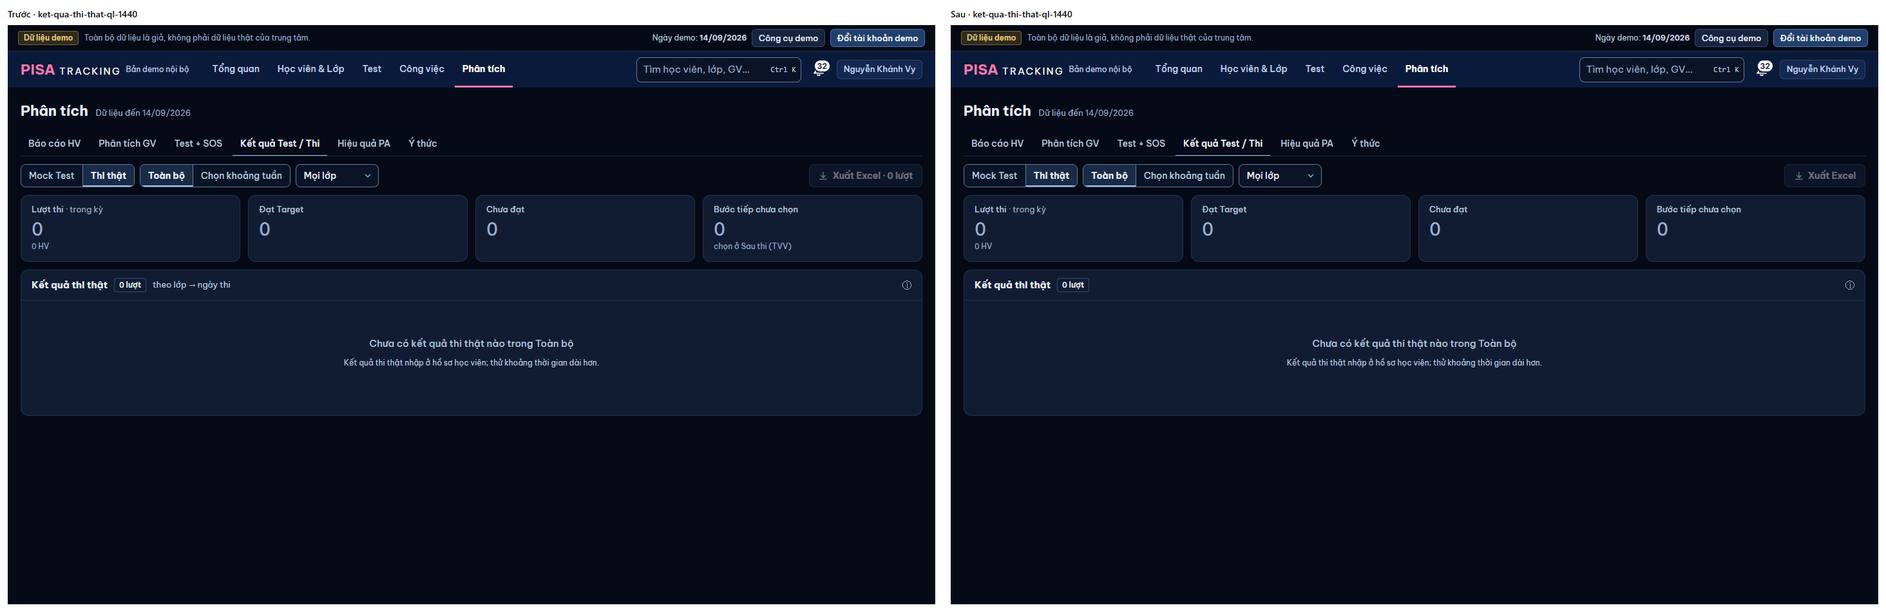
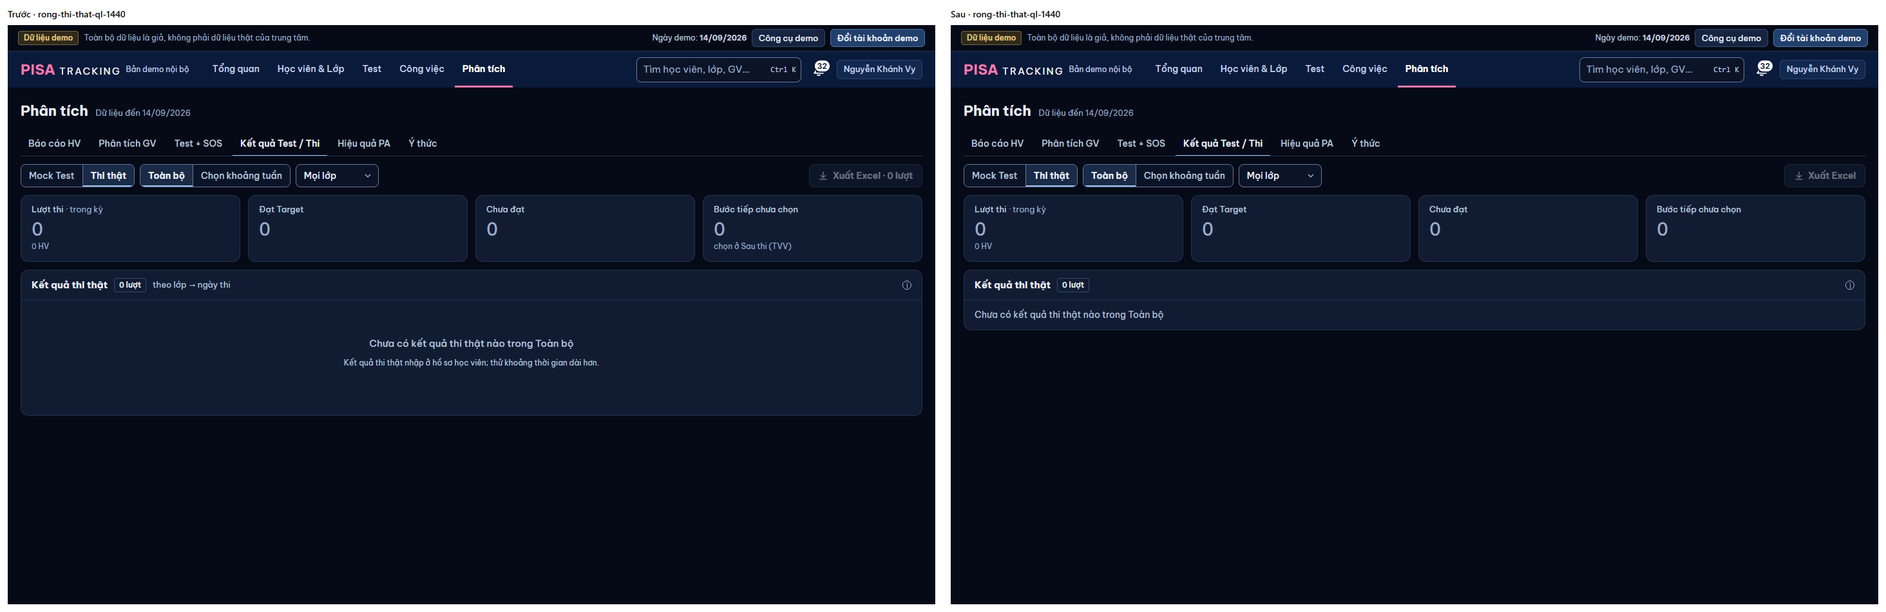
PT-GON: bỏ cột Lớp Thi thật (PTA XM-1), khung rỗng một câu ở đầu khung (M7)

Changed region(s): [[0.4973, 0.4879, 0.9945, 0.7014], [0.5283, 0.0, 0.5594, 0.0305], [0.0311, 0.0, 0.0622, 0.0305]]

diff --git a/web/src/modules/phanTich/KetQuaThi.tsx b/web/src/modules/phanTich/KetQuaThi.tsx
@@ -3,14 +3,14 @@ import { Link, useSearchParams } from 'react-router-dom';
 import { useApi } from '../../lib/useApi.ts';
 import { fmtBand } from '../../lib/format.ts';
 import { useNgayNghiepVu } from '../../ui/ngayNghiepVu.ts';
-import { Card, Empty, ErrorState, Skeleton } from '../../ui/ui.tsx';
+import { Card, ErrorState, Skeleton } from '../../ui/ui.tsx';
 import { ChipSos } from '../../ui/ChipSos.tsx';
 import { DauKetQua, lopKq } from '../../ui/BieuTuong.tsx';
 import { CHIP_SOS, NhanKq, lopSos } from '../../ui/Nhan.tsx';
 import { useDienThoai } from '../../ui/TheDong.tsx';
 import { PhanTrang, usePhanTrang, type ThanhPhanTrang } from '../../ui/PhanTrang.tsx';
 import { dich, t } from '@shared/i18n/index.ts';
-import { DOAN, DaiChiSo, DauThe, NutXemToanBo, NutXuat, OChon, SO_TRONG_CHIP, SoO as OSo, VaoHangLoc, doanNut, thamSoLoc, type PhamViPhanTich } from './dungChung.tsx';
+import { DOAN, DaiChiSo, DauThe, NutXemToanBo, RongDau, NutXuat, OChon, SO_TRONG_CHIP, SoO as OSo, VaoHangLoc, doanNut, thamSoLoc, type PhamViPhanTich } from './dungChung.tsx';
 import { duongDotTest } from '@shared/domain/index.ts';
 import { LINK_CHU, PanelCaseLuot } from './PanelCaseLuot.tsx';
 import {
@@ -71,7 +71,7 @@ function VungBang({ dau, error, reload, loading, rong, pt, bang, the }: {
   const dienThoai = useDienThoai();
   if (error) return <Card bodyClass="p-0">{dau}<div className="p-4"><ErrorState message={error.message} hint={error.hint} status={error.status} onRetry={reload} /></div></Card>;
   if (loading) return <Card bodyClass="p-0">{dau}<div className="p-4"><Skeleton rows={8} /></div></Card>;
-  if (rong) return <Card bodyClass="p-0">{dau}<div className="p-4">{rong}</div></Card>;
+  if (rong) return <Card bodyClass="p-0">{dau}{rong}</Card>;
   /* 375 (mockup C2): thẻ từng lượt đứng riêng, không khung bảng; phân trang ngay dưới thẻ cuối. */
   if (dienThoai) return <div className="space-y-2"><div ref={pt.dauBang} />{the}<div className="empty:hidden"><PhanTrang {...pt} duoi /></div></div>;
   return (
@@ -183,7 +183,7 @@ export function BangMock({ pv }: { pv: PhamViPhanTich }) {
           ]} />
         )}
         <VungBang dau={dauThe} error={error} reload={reload} loading={loading || !data} pt={pt.thanh}
-          rong={!rows.length ? <Empty title={t('Không có lượt Mock Test nào trong {ky}', { ky: nhanKhoang(pv.khoang).chinh })} hint={t('Thử khoảng thời gian dài hơn.')} action={<NutXemToanBo />} /> : null}
+          rong={!rows.length ? <RongDau chu={t('Không có lượt Mock Test nào trong {ky}', { ky: nhanKhoang(pv.khoang).chinh })} nut={<NutXemToanBo />} /> : null}
           the={pt.cat(rows).map((r) => (
             <div key={r.attemptId} className={THE_HV} style={nenThe}>
               <div className="flex items-center gap-2">
@@ -298,7 +298,7 @@ function BangThiThat({ pv }: { pv: PhamViPhanTich }) {
           ]} />
         )}
         <VungBang dau={dauThe} error={error} reload={reload} loading={loading || !data} pt={pt.thanh}
-          rong={!rows.length ? <Empty title={t('Chưa có kết quả thi thật nào trong {ky}', { ky: nhanKhoang(pv.khoang).chinh })} hint={t('Kết quả thi thật nhập ở hồ sơ học viên; thử khoảng thời gian dài hơn.')} action={<NutXemToanBo />} /> : null}
+          rong={!rows.length ? <RongDau chu={t('Chưa có kết quả thi thật nào trong {ky}', { ky: nhanKhoang(pv.khoang).chinh })} nut={<NutXemToanBo />} /> : null}
           the={hien.map((r) => (
             <div key={r.cycleId} className={THE_HV} style={nenThe}>
               <div className="flex items-center gap-2">
@@ -317,14 +317,15 @@ function BangThiThat({ pv }: { pv: PhamViPhanTich }) {
           ))}
           bang={(
             <div className="table-scroll bang-dinh">
-              <table className="w-full" style={{ tableLayout: 'fixed', minWidth: 1100 }}>
+              {/* PT-GON (PTA quyết XM-1, M3): bỏ cột "Lớp" — hàng nhóm đã ghi lớp (Xuất Excel giữ cột Lớp). */}
+              <table className="w-full" style={{ tableLayout: 'fixed', minWidth: 990 }}>
                 <colgroup>
-                  <col style={{ width: 180 }} /><col style={{ width: 110 }} /><col style={{ width: 100 }} /><col style={{ width: 70 }} />
+                  <col style={{ width: 180 }} /><col style={{ width: 100 }} /><col style={{ width: 70 }} />
                   {[0, 1, 2, 3].map((i) => <col key={i} style={{ width: 62 }} />)}
                   <col style={{ width: 76 }} /><col style={{ width: 130 }} /><col />
                 </colgroup>
                 <thead><tr>
-                  <th className="th sticky-col">{t('Học viên')}</th><th className="th">{t('Lớp')}</th><th className="th">{t('Ngày thi')}</th>
+                  <th className="th sticky-col">{t('Học viên')}</th><th className="th">{t('Ngày thi')}</th>
                   <th className="th text-center">OVR</th>
                   {['L', 'R', 'W', 'S'].map((k) => <th key={k} className="th text-center">{k}</th>)}
                   <th className="th text-center">Target</th>
@@ -336,13 +337,13 @@ function BangThiThat({ pv }: { pv: PhamViPhanTich }) {
                     const cuaLop = rows.filter((r) => (r.lop ?? '') === lop);
                     return (
                       <Fragment key={lop}>
-                        <tr className="hang-lon"><td colSpan={11} className="px-3 py-1.5">
-                          {lop || '—'} <span className="ml-1 text-[13px] font-normal text-dim">{t('{n} lượt · {hv} HV', { n: cuaLop.length, hv: new Set(cuaLop.map((r) => r.studentId)).size })}</span>
+                        <tr className="hang-lon"><td colSpan={10} className="px-3 py-1.5">
+                          {/* Cột Lớp đã bỏ → mã lớp ở hàng nhóm là link hồ sơ lớp (giữ thao tác cũ của ô Lớp). */}
+                          {lop && cuaLop[0]?.classId ? <Link to={`/hoc-vien/lop/${cuaLop[0].classId}`} className={LINK_CHU}>{lop}</Link> : lop || '—'} <span className="ml-1 text-[13px] font-normal text-dim">{t('{n} lượt · {hv} HV', { n: cuaLop.length, hv: new Set(cuaLop.map((r) => r.studentId)).size })}</span>
                         </td></tr>
                         {ds.map((r) => (
                           <tr key={r.cycleId} className="row-hover [&>td]:h-11">
                             <td className="td sticky-col"><Link to={`/hoc-vien/${r.studentId}`} className={`text-[15px] font-semibold ${LINK_CHU}`}>{r.ten}</Link></td>
-                            <td className="td">{oLop(r.lop, r.classId)}</td>
                             <td className="td text-dim tabular-nums">{ngay(r.ngayThi, homNay)}</td>
                             <td className="td text-center font-medium tabular-nums">{fmtBand(r.ovr)}</td>
                             {[r.l, r.r, r.w, r.s].map((x, i) => <td key={i} className="td text-center tabular-nums">{fmtBand(x)}</td>)}

diff --git a/web/src/modules/phanTich/YThucPhoiHop.tsx b/web/src/modules/phanTich/YThucPhoiHop.tsx
@@ -2,12 +2,12 @@ import { Fragment, useEffect, useState } from 'react';
 import { Link } from 'react-router-dom';
 import { useApi } from '../../lib/useApi.ts';
 import { useNgayNghiepVu } from '../../ui/ngayNghiepVu.ts';
-import { Card, Empty, ErrorState, Skeleton, Th } from '../../ui/ui.tsx';
+import { Card, ErrorState, Skeleton, Th } from '../../ui/ui.tsx';
 import { HangCon, HangNhom } from '../../ui/HangNhom.tsx';
 import { Nhan } from '../../ui/Nhan.tsx';
 import { TheDong, useDienThoai } from '../../ui/TheDong.tsx';
 import { PhanTrang, usePhanTrang } from '../../ui/PhanTrang.tsx';
-import { DINH_TRAI, DaiChiSo, DauThe, MAU_SO_VOI_TRUOC, NutXemToanBo, NutXuat, SoO as OSo, VaoHangLoc, thamSoLoc, type PhamViPhanTich } from './dungChung.tsx';
+import { DINH_TRAI, DaiChiSo, DauThe, MAU_SO_VOI_TRUOC, NutXemToanBo, NutXuat, RongDau, SoO as OSo, VaoHangLoc, thamSoLoc, type PhamViPhanTich } from './dungChung.tsx';
 import { dich, t } from '@shared/i18n/index.ts';
 import {
   COT_XUAT_HV_CAN_CHU_Y, KHOA_LOAI_XU_LY, NHOM_EM_LABEL, nhanKhoang, duongHoSoHocVien, nhanLoaiXuLy, nhanSoVoiTruoc, ngay,
@@ -203,20 +203,20 @@ export function YThucPhoiHop(props: PhamViPhanTich) {
       </VaoHangLoc>
       {error ? <Card><ErrorState message={error.message} hint={error.hint} status={error.status} onRetry={reload} /></Card>
         : loading || !data ? <Card><Skeleton rows={6} /></Card>
-        : data.scopeEmpty ? <Card><Empty title={t('Bạn chưa được cấp phạm vi nào')} /></Card>
+        : data.scopeEmpty ? <Card bodyClass="p-0"><RongDau chu={t('Bạn chưa được cấp phạm vi nào')} /></Card>
         : (
           <>
             {chiSo(data)}
             <Card bodyClass="p-0">
               <DauThe ten={t('Học viên cần chú ý')} dem={t('{n} HV', { n: data.hvCanChuY.length })} cachTinh={cachChon} />
               {data.hvCanChuY.length === 0
-                ? <div className="p-4"><Empty title={t('Không có học viên nào cần chú ý trong {ky}', { ky: nhanKy })} hint={t('Thử khoảng thời gian dài hơn.')} action={<NutXemToanBo />} /></div>
+                ? <RongDau chu={t('Không có học viên nào cần chú ý trong {ky}', { ky: nhanKy })} nut={<NutXemToanBo />} />
                 : <><div ref={ptHv.thanh.dauBang} />{dienThoai ? ptHv.cat(data.hvCanChuY).map(theHv) : bang1(ptHv.cat(data.hvCanChuY))}<div className="px-3"><PhanTrang {...ptHv.thanh} duoi /></div></>}
             </Card>
             <Card bodyClass="p-0">
               <DauThe ten={t('Lớp nhiều vi phạm')} dem={t('{n} lớp', { n: data.lop.length + (data.gom?.soLop ?? 0) })} cachTinh={t('xếp theo vi phạm chưa xử lý')} />   {/* PT-GON (M4): cách xếp vào ⓘ */}
               {data.lop.length === 0 && !data.gom
-                ? <div className="p-4"><Empty title={t('Chưa có vi phạm nào trong {ky}', { ky: nhanKy })} hint={t('Số có khi đã ghi vi phạm — thử khoảng thời gian dài hơn.')} action={<NutXemToanBo />} /></div>
+                ? <RongDau chu={t('Chưa có vi phạm nào trong {ky}', { ky: nhanKy })} nut={<NutXemToanBo />} />
                 : (
                   <>
                   <div ref={ptLop.thanh.dauBang} />

diff --git a/web/src/modules/phanTich/HieuQuaPa.tsx b/web/src/modules/phanTich/HieuQuaPa.tsx
@@ -1,12 +1,12 @@
 import { Fragment, useEffect, useState, type ReactNode } from 'react';
 import { useSearchParams } from 'react-router-dom';
 import { useApi } from '../../lib/useApi.ts';
-import { Card, Empty, ErrorState, Skeleton, Th } from '../../ui/ui.tsx';
+import { Card, ErrorState, Skeleton, Th } from '../../ui/ui.tsx';
 import { HangCon, HangNhom } from '../../ui/HangNhom.tsx';
 import { CHIP_SOS, Nhan, lopSos } from '../../ui/Nhan.tsx';
 import { TyLe } from '../../ui/TyLe.tsx';
 import { PhanTrang, usePhanTrang } from '../../ui/PhanTrang.tsx';
-import { DINH_TRAI, DaiChiSo, DauThe, NutXemToanBo, SoO as OSo, VaoHangLoc, thamSoLoc, type PhamViPhanTich } from './dungChung.tsx';
+import { DINH_TRAI, DaiChiSo, DauThe, NutXemToanBo, RongDau, SoO as OSo, VaoHangLoc, thamSoLoc, type PhamViPhanTich } from './dungChung.tsx';
 import { NutLuat } from '../../ui/NutLuat.tsx';
 import { t } from '@shared/i18n/index.ts';
 import {
@@ -166,7 +166,7 @@ export function HieuQuaPa(props: PhamViPhanTich) {
       )}
       {error ? <Card><ErrorState message={error.message} hint={error.hint} status={error.status} onRetry={reload} /></Card>
         : loading || !data ? <Card><Skeleton rows={8} /></Card>
-        : data.scopeEmpty ? <Card><Empty title={t('Bạn chưa được cấp phạm vi nào')} /></Card>
+        : data.scopeEmpty ? <Card bodyClass="p-0"><RongDau chu={t('Bạn chưa được cấp phạm vi nào')} /></Card>
         : (
           <>
             {/* Thẻ chỉ số — cùng số với đầu hai thẻ bảng (tóm tắt máy chủ). "Chưa tính" = ba số "Để số liệu đủ tin" cũ ở chân bảng. */}
@@ -206,7 +206,7 @@ export function HieuQuaPa(props: PhamViPhanTich) {
                   </>
                 )} />
               {data.gvThem.hang.length === 0 && !data.gvThem.gom
-                ? <div className="flex flex-wrap items-center gap-x-3 gap-y-2 px-4 py-3"><p className="m-0 text-sm text-[color:var(--text-dim)]">{t('Chưa có PA do giáo viên thêm có kết quả trong {khoang}.', { khoang })}</p><NutXemToanBo /></div>
+                ? <RongDau chu={t('Chưa có PA do giáo viên thêm có kết quả trong {khoang}.', { khoang })} nut={<NutXemToanBo />} />
                 : (
                   <>
                     <div ref={ptGv.thanh.dauBang} />
@@ -246,7 +246,7 @@ export function HieuQuaPa(props: PhamViPhanTich) {
                   </>
                 )} />
               {dongQc.length === 0
-                ? <div className="flex flex-wrap items-center gap-x-3 gap-y-2 px-4 py-3"><p className="m-0 text-sm text-[color:var(--text-dim)]">{t('Chưa có PA theo quy chế có kết quả trong {khoang}.', { khoang })}</p><NutXemToanBo /></div>
+                ? <RongDau chu={t('Chưa có PA theo quy chế có kết quả trong {khoang}.', { khoang })} nut={<NutXemToanBo />} />
                 : (
                   <>
                     <div ref={ptQc.thanh.dauBang} />

diff --git a/web/src/modules/phanTich/BaoCao.tsx b/web/src/modules/phanTich/BaoCao.tsx
@@ -6,7 +6,7 @@ import { OSo } from '../../ui/OSo.tsx';
 import { Bang, type CotBang } from '../../ui/Bang.tsx';
 import { NutLuat } from '../../ui/NutLuat.tsx';
 import { PhanTram, TheoChiNhanh, mauDatMt, tuMau, type TongQuanV5Data } from '../worklist/TongQuanV5.tsx';
-import { DaiChiSo, DauThe, NutXemToanBo, thamSoLoc, type PhamViPhanTich } from './dungChung.tsx';
+import { DaiChiSo, DauThe, NutXemToanBo, RongDau, thamSoLoc, type PhamViPhanTich } from './dungChung.tsx';
 import { t } from '@shared/i18n/index.ts';
 import { tuanLich } from '@shared/domain/index.ts';
 import {
@@ -134,8 +134,9 @@ function KetQuaMt({ api, nguon, phamVi }: { api: { data: KetQuaMtKq | null; erro
     <Khoi tieuDe={t('Kết quả MT')} luat={luat} phu={<span className="hidden print:inline">{phamVi} · {t('lượt của từng HV trong kỳ · % trên HV đủ dữ liệu')}</span>}>   {/* PT-GON (M4): cách tính ở ⓘ + dòng "n HV · m đủ dữ liệu" của hàng; bản in giữ câu */}
       {api.error ? <ErrorState message={api.error.message} hint={api.error.hint} status={api.error.status} onRetry={api.reload} />
         : !api.data ? <Skeleton rows={5} className="p-4" />
-          : <Bang ten={t('Kết quả MT')} cot={COT_KQ} hang={!api.data.rows.some((h) => h.hv) ? [] : api.data.rows.filter((h) => h.hv || h.luot === 'thi')} khoa={(h) => h.luot} oCua={oCua} phuCua={phuCua} khung={false} deu
-              rong={{ tieuDe: t('Chưa có lượt MT nào trong kỳ'), nut: <NutXemToanBo /> }} />}
+          /* PT-GON (M7): rỗng → một câu ở đầu khung (không qua `Empty` căn giữa của `Bang`). */
+          : !api.data.rows.some((h) => h.hv) ? <RongDau chu={t('Chưa có lượt MT nào trong kỳ')} nut={<NutXemToanBo />} />
+          : <Bang ten={t('Kết quả MT')} cot={COT_KQ} hang={api.data.rows.filter((h) => h.hv || h.luot === 'thi')} khoa={(h) => h.luot} oCua={oCua} phuCua={phuCua} khung={false} deu />}
     </Khoi>
   );
 }
@@ -153,9 +154,10 @@ function TienBo({ hang, nguon }: { hang: NonNullable<BaoCaoKq['tienBo']>; nguon:
   };
   return (
     <Khoi tieuDe={t('Tiến bộ theo kỹ năng')} phu={t('so mốc MT trước')}>
-      <Bang ten={t('Tiến bộ theo kỹ năng')} cot={COT_TB} hang={hang} khoa={(h) => h.skill} oCua={oCua} the375={false} deu
-        phuCua={(h, c) => (c.key === 'kn' ? null : h.tong ? pt(so(h, c.key), h.tong) : null)} khung={false}
-        rong={{ tieuDe: t('Chưa có lượt nào có mốc MT trước trong kỳ'), nut: <NutXemToanBo /> }} />
+      {!hang.length ? <RongDau chu={t('Chưa có lượt nào có mốc MT trước trong kỳ')} nut={<NutXemToanBo />} /> : (   /* PT-GON (M7) */
+        <Bang ten={t('Tiến bộ theo kỹ năng')} cot={COT_TB} hang={hang} khoa={(h) => h.skill} oCua={oCua} the375={false} deu
+          phuCua={(h, c) => (c.key === 'kn' ? null : h.tong ? pt(so(h, c.key), h.tong) : null)} khung={false} />
+      )}
     </Khoi>
   );
 }

diff --git a/web/src/modules/phanTich/TongHopTestSos.tsx b/web/src/modules/phanTich/TongHopTestSos.tsx
@@ -4,12 +4,12 @@ import { useApi } from '../../lib/useApi.ts';
 import { useTapUrl } from '../../lib/quayLai.ts';
 import { useSession } from '../../lib/session.tsx';
 import { useNgayNghiepVu } from '../../ui/ngayNghiepVu.ts';
-import { Card, Empty, ErrorState, SCORE_CHIP, Skeleton, Th } from '../../ui/ui.tsx';
+import { Card, ErrorState, SCORE_CHIP, Skeleton, Th } from '../../ui/ui.tsx';
 import { CHIP_VUONG } from '../../ui/Nhan.tsx';
 import { MenuDong, type MucMenu } from '../../ui/MenuDong.tsx';
 import { HangCon, HangNhom } from '../../ui/HangNhom.tsx';
 import { useDienThoai } from '../../ui/TheDong.tsx';
-import { DaiChiSo, DauThe, DINH_TRAI, NutXemToanBo, NutXuat, OChon, SO_TRONG_CHIP, SoO as OSo, VaoHangLoc, type ChiSo } from './dungChung.tsx';
+import { DaiChiSo, DauThe, DINH_TRAI, NutXemToanBo, NutXuat, OChon, RongDau, SO_TRONG_CHIP, SoO as OSo, VaoHangLoc, type ChiSo } from './dungChung.tsx';
 import { NganXuatMt } from '../test/NganXuatMt.tsx';
 import { PhanTrang, usePhanTrang } from '../../ui/PhanTrang.tsx';
 import { NGON_NGU, dich, t } from '@shared/i18n/index.ts';
@@ -330,9 +330,8 @@ export function TongHopTestSos({ branchId, ct, khoang, classId }: {
   const tongNhan = `${t('Tổng')} ${demTheo(theo, data?.hang.length ?? 0)}`;
   const coBang = !!data && !data.scopeEmpty && data.hang.length > 0;
   const rong = data && !coBang ? (
-    data.scopeEmpty ? <Empty title={t('Bạn chưa được cấp phạm vi nào')} />
-      : <Empty title={t('Chưa có lượt nào có điểm')} hint={khoang.kieu === 'toan-bo' ? undefined : t('trong {ky}', { ky: nhanKy })}
-          action={<NutXemToanBo />} />
+    data.scopeEmpty ? <RongDau chu={t('Bạn chưa được cấp phạm vi nào')} />
+      : <RongDau chu={khoang.kieu === 'toan-bo' ? t('Chưa có lượt nào có điểm') : `${t('Chưa có lượt nào có điểm')} ${t('trong {ky}', { ky: nhanKy })}`} nut={<NutXemToanBo />} />
   ) : null;
 
   return (

diff --git a/web/src/modules/phanTich/PhanTichGiaoVien.tsx b/web/src/modules/phanTich/PhanTichGiaoVien.tsx
@@ -15,7 +15,7 @@ import { BoLocDoan, Empty, ErrorState, Skeleton } from '../../ui/ui.tsx';
 import { useNgayNghiepVu } from '../../ui/ngayNghiepVu.ts';
 import { LOP_OSO, VUNG_BAM_SO } from '../../ui/SoLieu.tsx';
 import { gopKq, phuGv, tyLeGv } from '../worklist/TongQuanV5.tsx';
-import { DOAN, DauThe, VaoHangLoc, doanNut } from './dungChung.tsx';
+import { DOAN, DauThe, RongDau, VaoHangLoc, doanNut } from './dungChung.tsx';
 
 /**
  * PHÂN TÍCH GV (UI-PHAN-TICH, `thiet-ke/v5/phan-tich.html` tab "Phân tích GV"; `10` mục 1 + dòng UI-PHAN-TICH): MỘT bảng, hai nhóm cột Hành chính / Học thuật.
@@ -73,7 +73,7 @@ export function PhanTichGiaoVien({ branchId, ct, khoang }: { branchId: number | 
   const hang = (data?.hang ?? []).filter((h) => !tim.trim() || boDau(h.ten).includes(boDau(tim.trim())));
   const pt = usePhanTrang(hang.length, `${q}|${tim}`, t('giáo viên'));
 
-  if (!branchId) return <Empty title={t('Chọn một chi nhánh')} hint={t('Bảng giáo viên luôn là một chi nhánh — chọn ở ô chi nhánh đầu trang.')} />;
+  if (!branchId) return <div className="card"><RongDau chu={t('Chọn một chi nhánh')} /></div>;   // PT-GON (M7): một câu ở đầu khung
   const ft = khung === 'ft';
   const day = boCot === 'day';
   const cot = (day ? COT_DAY : COT_GON).filter((c) => ft || !CHI_FT.has(c.key)).map((c) => (!ft && c.key === 'dat' ? { ...c, nhan: t('Đạt Test') } : c));

diff --git a/web/src/modules/phanTich/dungChung.tsx b/web/src/modules/phanTich/dungChung.tsx
@@ -69,6 +69,15 @@ export function OChon({ className = '', dangLoc = false, children, ...p }: Selec
 /** V8-PT: số trong chip Đạt / SOS không gạch chân, mang màu chip (chip đã là ô bấm — mockup `.chip-so`). */
 export const SO_TRONG_CHIP = '!no-underline !text-inherit !font-semibold';
 
+/** PT-GON (M7): khung rỗng của Phân tích — MỘT câu ở đầu khung (không căn giữa khung cao, không câu phụ) + nút (Xem Toàn bộ). */
+export function RongDau({ chu, nut }: { chu: string; nut?: ReactNode }) {
+  return (
+    <div className="flex flex-wrap items-center gap-x-3 gap-y-2 px-4 py-3">
+      <p className="m-0 text-sm text-[color:var(--text-dim)]">{chu}</p>{nut}
+    </div>
+  );
+}
+
 /** V8-PT (D2): rỗng → một bấm sang "Toàn bộ" (cùng tham số khoảng chung với ô Thời gian); đang Toàn bộ thì không vẽ. */
 export function NutXemToanBo() {
   const [params, setParams] = useSearchParams();

diff --git a/docs/anh/ui-pt-gon/khop-khac.md b/docs/anh/ui-pt-gon/khop-khac.md
@@ -19,7 +19,8 @@ U08 (góp ý chủ SP 03/11, `plan.md` mục 4): đã làm hết ở #901 (màu 
 | Test (lớp thường) · QL · 1440 tối | `truoc-sau-test-thuong-ql-1440-toi.png` |
 | Báo cáo HV · 1440 tối | `truoc-sau-bao-cao-ql-1440-toi.png` |
 | Kết quả Test (Mock) · 1440 tối | `truoc-sau-ket-qua-mt-ql-1440-toi.png` |
-| Kết quả Thi thật · 1440 tối (Toàn bộ — demo chưa có lượt) | `truoc-sau-thi-that-ql-1440-toi.png` |
+| Kết quả Thi thật · 1440 tối / 375 sáng (Toàn bộ — demo chưa có lượt thi thật nào nên chỉ thấy khung rỗng) | `truoc-sau-thi-that-ql-1440-toi.png` · `truoc-sau-thi-that-375-sang.png` |
+| Khung rỗng (P21): Test + SOS · TVV (W1–W2 SEP) · Phân tích GV · Quản trị chưa chọn chi nhánh | `truoc-sau-rong-test-sos-tvv-1440-toi.png` · `truoc-sau-rong-gv-qt-1440-toi.png` |
 | Hiệu quả PA · 1440 tối | `truoc-sau-pa-ql-1440-toi.png` |
 | Phân tích GV · 1440 tối | `truoc-sau-gv-ql-1440-toi.png` |
 | Ý thức · 1440 tối | `truoc-sau-y-thuc-ql-1440-toi.png` |
@@ -70,11 +71,13 @@ U08 (góp ý chủ SP 03/11, `plan.md` mục 4): đã làm hết ở #901 (màu 
 | P16 | Hiệu quả PA rỗng: "Chưa có PA … trong W1 + W2 SEP/2026. Số có khi PA kết thúc có kết quả — thử khoảng thời gian dài hơn." | M7 | Một câu "Chưa có PA … trong {khoảng}." + nút Xem Toàn bộ (câu mới có EN, `en/ptGon.ts`) | `HieuQuaPa` |
 | P17 | "PA theo quy chế · bắt buộc · không so, không xếp hạng"; "2 vấn đề khác / mỗi vấn đề ≤ 2 PA có kết quả" (2 dòng) | M4, M2 | Câu đầu → ⓘ; "mỗi vấn đề ≤ 2 …" → `title` hàng + ⓘ (cho 375 chạm) | `HieuQuaPa` |
 | P18 | Phân tích GV: "7 GV · xếp theo tên" cuối hàng lọc (lặp chip "7 GV"; "xếp theo tên" có ở ⓘ) | M3 | Bỏ | `PhanTichGiaoVien` |
+| P20 | Thi thật: cột "Lớp" lặp hàng nhóm lớp ngay trên (**PTA quyết XM-1**, cùng kiểu U08 bỏ cột Xử lý / Người chọn) | M3 | Bỏ cột trên màn (bảng 1 100 → 990 px); mã lớp ở hàng nhóm thành link hồ sơ lớp (giữ thao tác của ô Lớp cũ); Xuất Excel giữ cột Lớp; thẻ 375 giữ "lớp · ngày" (thẻ không có hàng nhóm) | `KetQuaThi` |
+| P21 | Khung rỗng căn giữa khung cao + câu phụ ("Kết quả thi thật nhập ở hồ sơ học viên; thử khoảng…", "Thử khoảng thời gian dài hơn.", "Số có khi đã ghi vi phạm — …", "Bảng giáo viên luôn là một chi nhánh — …") | M7 | `RongDau` (một câu ở đầu khung + nút Xem Toàn bộ, cùng dáng khung rỗng Hiệu quả PA) cho mọi khung rỗng của Phân tích: Test + SOS, Kết quả Test (Mock, Thi thật), Báo cáo (Kết quả MT, Tiến bộ), Hiệu quả PA, Ý thức (2 khung), "Chưa được cấp phạm vi", Phân tích GV chưa chọn chi nhánh. `Empty` chung toàn web không đổi; rỗng trong panel giữ | `dungChung`, 6 tab |
 | P19 | Ý thức: "Chưa xử lý 14 · trên 36 vi phạm" (36 = ô Vi phạm cạnh); "Lớp nhiều vi phạm · xếp theo vi phạm chưa xử lý" | M3, M4 | Bỏ "trên n vi phạm"; câu xếp → ⓘ | `YThucPhoiHop` |
 
 **Không sửa (ghi lại):**
-- [XM-1] Thi thật: cột "Lớp" lặp hàng nhóm lớp ngay trên (M3) — bỏ cột là đổi bố cục bảng U08 → để PTA / chủ SP quyết.
-- [XM-2] Thẻ 375 Test + SOS: số 15 / 700 (mockup C1) — luật 500 chỉ áp ô bảng như #937; muốn đồng bộ cả thẻ 375 thì PR cuối đợt (`LOP_OSO`).
+- [XM-1] → PTA quyết bỏ cột (P20). Demo chưa có lượt thi thật nào → bảng có dữ liệu không chụp được; kiểm bằng mã (colgroup 10 cột = th = td, colSpan 10).
+- [XM-2] Thẻ 375 Test + SOS: số 15 / 700 (mockup C1) — PTA đồng ý để PR cuối đợt (`LOP_OSO`).
 - Chip đếm đầu bảng ("2 tuần", "17 lượt", "6 HV") giữ — mẫu `DauThe` dùng chung; panel mở từ số (portal) không đổi.
 - Hồ sơ lớp › Phân tích lớp: số "7/9" 700 → 500 vì luật CSS chung (P2) — đúng ý #941 ("số bảng 500"), trước đây sót vì bảng không mang `.bang`.
 
@@ -85,7 +88,8 @@ U08 (góp ý chủ SP 03/11, `plan.md` mục 4): đã làm hết ở #901 (màu 
 | 6 tab · Chương trình · Toàn bộ / Chọn khoảng tuần · ô tuần · Mọi lớp · chi nhánh | có | có |
 | Test + SOS: Theo tuần / lớp / GV ▾ · Xuất Excel · ⋯ (Cột hiện, Xuất kết quả từng lượt) · mở / gập hàng · bấm mọi số → panel | có | có (chip SOS bằng 0 không còn, vốn không bấm được) |
 | Báo cáo: In · ⓘ · bấm số → panel | có | có |
-| Kết quả Test: Mock / Thi thật · Xếp theo · Mọi kết quả · Xuất Excel · tên → hồ sơ HV · MT → hồ sơ lượt · lớp → hồ sơ lớp · chip SOS → panel Case · phân trang | có | có |
+| Kết quả Test: Mock / Thi thật · Xếp theo · Mọi kết quả · Xuất Excel · tên → hồ sơ HV · MT → hồ sơ lượt · lớp → hồ sơ lớp · chip SOS → panel Case · phân trang | có | có (Thi thật: lớp → hồ sơ lớp ở hàng nhóm thay ô Lớp) |
+| Khung rỗng: Xem Toàn bộ | có | có |
 | Hiệu quả PA: chip GV ✕ · bấm số → panel · mở "n vấn đề khác" · Xem Toàn bộ · ⓘ | có | có |
 | Phân tích GV: Gọn / Đầy đủ · Tìm GV · tên → hồ sơ GV · số → panel | có | có |
 | Ý thức: Xuất Excel · bấm số → panel · mở lớp · tên → hồ sơ | có | có (+ ⓘ "Lớp nhiều vi phạm") |
